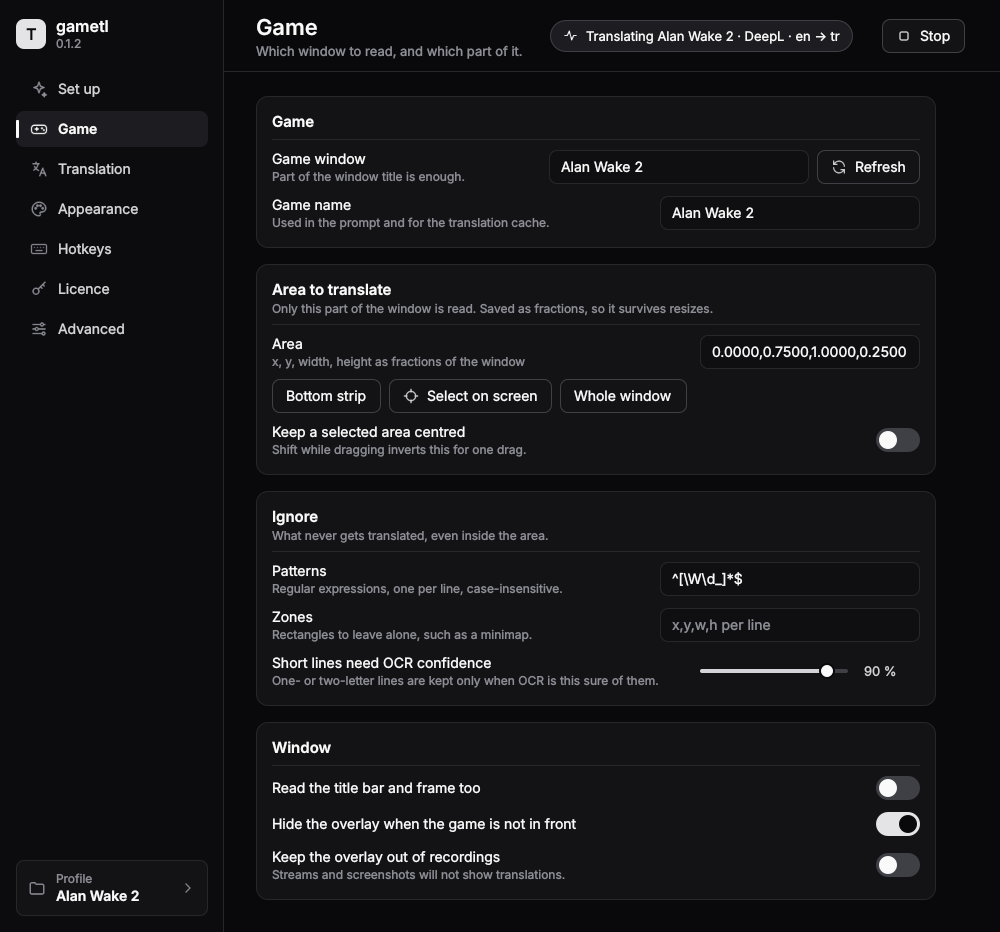
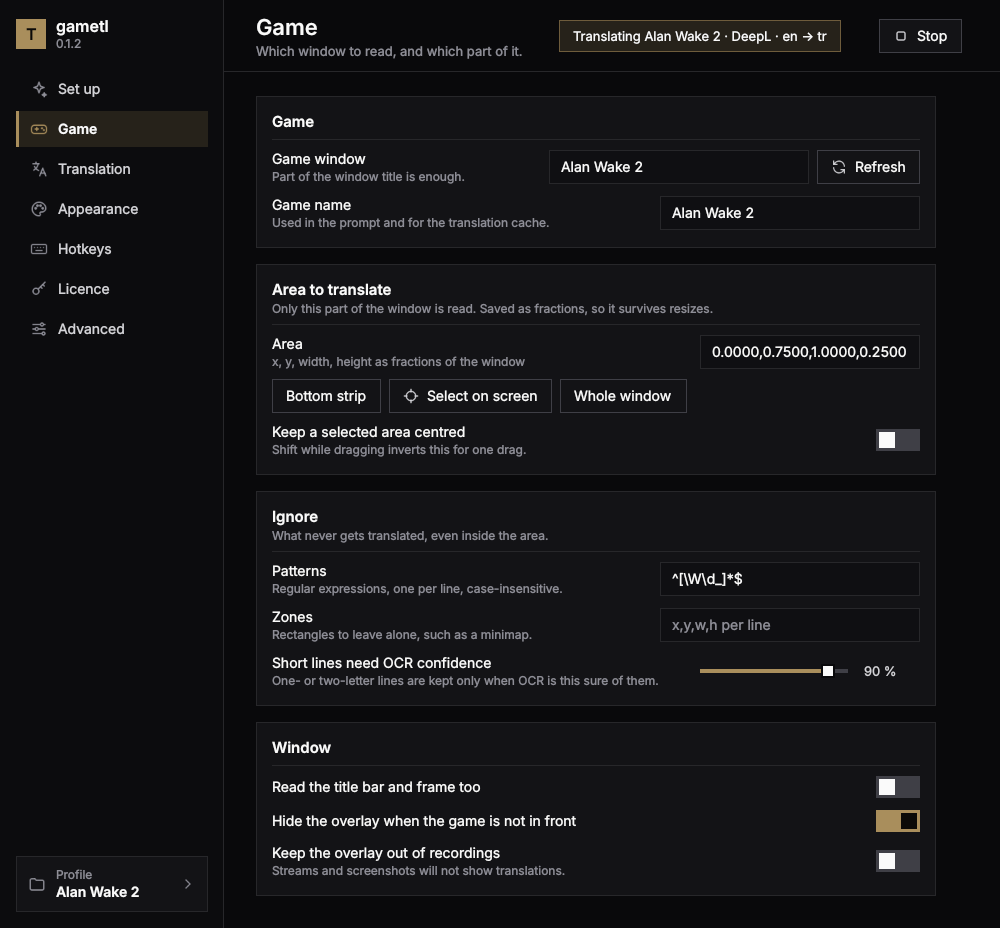
Settings mock: sharp corners, a dim gold accent, state in words only
Every corner is square now, the subtitle pill in the preview excepted
(it mirrors the overlay). One muted accent, a dim gold, marks the filled
button, a switch that is on, the active page, focus and the step badges;
the status chip is text only, tinted while translating. The preview
scene turned to a warm dusk.

diff --git a/src/gametl/app/qml/Header.qml b/src/gametl/app/qml/Header.qml
@@ -2,17 +2,13 @@ import QtQuick
 import QtQuick.Layouts
 import "Icons.js" as Icons
 
-// Page title on the left; the state of the overlay and its one button on the right.
+// Page title on the left; the state of the overlay, in words, and its one button on the right.
 Item {
     id: root
     property string title: ""
     property string subtitle: ""
     property string status: "idle"  // "idle" | "starting" | "running" | "paused"
     property string statusText: "Overlay off"
-
-    readonly property string statusIcon: status === "running" ? Icons.activity
-                                       : status === "starting" ? Icons.loader
-                                       : status === "paused" ? Icons.pause : Icons.power
 
     implicitHeight: 72
 
@@ -31,27 +27,16 @@ Item {
 
         Rectangle {
             height: 32
-            width: chip.implicitWidth + 26
-            radius: 16
-            color: root.status === "running" ? Theme.cardRaised : Theme.card
-            border.color: root.status === "running" ? Theme.borderStrong : Theme.border
-            Row {
+            width: chip.implicitWidth + 28
+            color: root.status === "running" ? Theme.accentSoft : Theme.card
+            border.color: root.status === "running" ? Theme.accentDeep : Theme.border
+            Text {
                 id: chip
                 anchors.centerIn: parent
-                spacing: 8
-                Icon {
-                    path: root.statusIcon
-                    size: 15
-                    color: root.status === "running" ? Theme.text : Theme.muted
-                    anchors.verticalCenter: parent.verticalCenter
-                }
-                Text {
-                    text: root.statusText
-                    color: root.status === "running" ? Theme.text : Theme.textSoft
-                    font.family: Theme.font
-                    font.pixelSize: Theme.sizeSmall + 1
-                    anchors.verticalCenter: parent.verticalCenter
-                }
+                text: root.statusText
+                color: root.status === "running" ? Theme.text : Theme.textSoft
+                font.family: Theme.font
+                font.pixelSize: Theme.sizeSmall + 1
             }
         }
 

diff --git a/src/gametl/app/qml/SideNav.qml b/src/gametl/app/qml/SideNav.qml
@@ -34,9 +34,9 @@ Rectangle {
             Layout.bottomMargin: 2 * Theme.space
             spacing: 10
             Rectangle {
-                width: 30; height: 30; radius: 8
-                color: Theme.primary
-                Text { anchors.centerIn: parent; text: "T"; color: Theme.textOnPrimary; font.family: Theme.font; font.pixelSize: 16; font.weight: Font.Bold }
+                width: 30; height: 30
+                color: Theme.accent
+                Text { anchors.centerIn: parent; text: "T"; color: Theme.textOnAccent; font.family: Theme.font; font.pixelSize: 16; font.weight: Font.Bold }
             }
             ColumnLayout {
                 spacing: 0
@@ -53,18 +53,18 @@ Rectangle {
                 Layout.fillWidth: true
                 height: 36
                 radius: Theme.radiusSmall
-                color: active ? Theme.cardRaised : mouse.containsMouse ? Theme.card : "transparent"
+                color: active ? Theme.accentSoft : mouse.containsMouse ? Theme.card : "transparent"
 
                 Rectangle {
                     visible: parent.active
-                    x: 0; y: 9; width: 3; height: 18; radius: 2
-                    color: Theme.text
+                    x: 0; y: 0; width: 3; height: parent.height
+                    color: Theme.accent
                 }
                 Row {
                     anchors.verticalCenter: parent.verticalCenter
                     x: 14
                     spacing: 10
-                    Icon { path: modelData.icon; color: parent.parent.active ? Theme.text : Theme.muted; size: 18; anchors.verticalCenter: parent.verticalCenter }
+                    Icon { path: modelData.icon; color: parent.parent.active ? Theme.accent : Theme.muted; size: 18; anchors.verticalCenter: parent.verticalCenter }
                     Text {
                         text: modelData.label
                         color: parent.parent.active ? Theme.text : Theme.textSoft

diff --git a/src/gametl/app/qml/SubtitlePreview.qml b/src/gametl/app/qml/SubtitlePreview.qml
@@ -15,21 +15,19 @@ Rectangle {
     property string position: "bottom"
 
     implicitHeight: width * 9 / 16
-    radius: Theme.radius
     clip: true
     color: "#0A0C10"
 
     // A dusk scene: sky, a tree line, a lit window. Enough to judge contrast.
     Rectangle {
         anchors.fill: parent
-        radius: root.radius
         gradient: Gradient {
-            GradientStop { position: 0.0; color: "#26262C" }
-            GradientStop { position: 0.55; color: "#34323A" }
+            GradientStop { position: 0.0; color: "#3A2C2C" }
+            GradientStop { position: 0.55; color: "#2E2733" }
             GradientStop { position: 1.0; color: "#0E0E11" }
         }
     }
-    Rectangle { x: parent.width * 0.62; y: parent.height * 0.18; width: 110; height: 110; radius: 55; color: "#D8CBA0"; opacity: 0.22 }
+    Rectangle { x: parent.width * 0.62; y: parent.height * 0.18; width: 110; height: 110; radius: 55; color: "#E3C98E"; opacity: 0.28 }
     Repeater {
         model: 9
         Rectangle {
@@ -39,10 +37,10 @@ Rectangle {
             width: root.width / 6
             height: root.height * 0.6
             radius: 40
-            color: "#121215"
+            color: "#15131A"
         }
     }
-    Rectangle { x: parent.width * 0.74; y: parent.height * 0.66; width: 22; height: 30; color: "#E8C27A"; opacity: 0.8 }
+    Rectangle { x: parent.width * 0.74; y: parent.height * 0.66; width: 22; height: 30; color: "#E8B45A"; opacity: 0.85 }
 
     Item {
         id: zone
@@ -99,7 +97,6 @@ Rectangle {
         anchors.margins: 10
         width: previewTag.implicitWidth + 16
         height: 22
-        radius: 11
         color: Qt.rgba(0, 0, 0, 0.45)
         Text { id: previewTag; anchors.centerIn: parent; text: "Live preview"; color: Theme.textSoft; font.family: Theme.font; font.pixelSize: 11 }
     }

diff --git a/src/gametl/app/qml/Theme.qml b/src/gametl/app/qml/Theme.qml
@@ -2,8 +2,9 @@ pragma Singleton
 import QtQuick
 
 // The design tokens every component reads: one palette, one spacing grid,
-// one type scale. Neutral zinc greys on near-black; no hue anywhere in the
-// chrome, so the game's own colours in the preview are the only colour.
+// one type scale. Sharp corners; zinc greys on near-black with one muted
+// accent (a dim gold) for the things that matter: the filled button, a
+// switch that is on, the active page, focus.
 QtObject {
     readonly property color window: "#09090B"
     readonly property color sidebar: "#0C0C0E"
@@ -15,14 +16,16 @@ QtObject {
     readonly property color text: "#FAFAFA"
     readonly property color textSoft: "#D4D4D8"
     readonly property color muted: "#8E8E97"
-    readonly property color primary: "#E4E4E7"      // filled buttons, switches that are on
-    readonly property color textOnPrimary: "#09090B"
-    readonly property color selection: "#52525B"
-    readonly property color danger: "#E5484D"       // destructive actions only
+    readonly property color accent: "#A98E5C"       // dim gold: filled button, switch on, active page, focus
+    readonly property color accentSoft: "#26221A"   // the accent at 15 %, for the active page's row
+    readonly property color accentDeep: "#6E5C3C"   // outlines in the accent that must stay quiet
+    readonly property color textOnAccent: "#0B0A08"
+    readonly property color selection: "#4A4234"
+    readonly property color danger: "#B5484D"       // destructive actions only
 
     readonly property int space: 8
-    readonly property int radius: 12
-    readonly property int radiusSmall: 8
+    readonly property int radius: 0
+    readonly property int radiusSmall: 0
     readonly property int sidebarWidth: 224
     readonly property int contentWidth: 680
 

diff --git a/src/gametl/app/qml/PrimaryButton.qml b/src/gametl/app/qml/PrimaryButton.qml
@@ -1,11 +1,11 @@
 import QtQuick
 import QtQuick.Controls.Basic
 
-// The one filled button on a page: light on dark, no hue.
+// The one filled button on a page, in the accent.
 Button {
     id: root
     property string icon_: ""
-    property color fill: Theme.primary
+    property color fill: Theme.accent
 
     implicitHeight: 36
     leftPadding: 16
@@ -15,12 +15,11 @@ Button {
     font.weight: Font.DemiBold
 
     background: Rectangle {
-        radius: Theme.radiusSmall
-        color: root.down ? Qt.darker(root.fill, 1.2) : root.hovered ? "#FFFFFF" : root.fill
+        color: root.down ? Qt.darker(root.fill, 1.2) : root.hovered ? Qt.lighter(root.fill, 1.1) : root.fill
     }
     contentItem: Row {
         spacing: 8
-        Icon { visible: root.icon_ !== ""; path: root.icon_; color: Theme.textOnPrimary; size: 16; strokeWidth: 2.2; anchors.verticalCenter: parent.verticalCenter }
-        Text { text: root.text; color: Theme.textOnPrimary; font: root.font; anchors.verticalCenter: parent.verticalCenter }
+        Icon { visible: root.icon_ !== ""; path: root.icon_; color: Theme.textOnAccent; size: 16; strokeWidth: 2.2; anchors.verticalCenter: parent.verticalCenter }
+        Text { text: root.text; color: Theme.textOnAccent; font: root.font; anchors.verticalCenter: parent.verticalCenter }
     }
 }

diff --git a/src/gametl/app/qml/Toggle.qml b/src/gametl/app/qml/Toggle.qml
@@ -1,24 +1,23 @@
 import QtQuick
 import QtQuick.Controls.Basic
 
-// A switch: light track with a dark knob when on, dark track with a light
-// knob when off. No hue.
+// A switch: a square knob sliding on a bar; the bar takes the accent when on.
 Switch {
     id: root
     implicitWidth: 44
-    implicitHeight: 24
+    implicitHeight: 22
     padding: 0
 
     indicator: Rectangle {
-        width: 44; height: 24; radius: 12
-        color: root.checked ? Theme.primary : Theme.borderStrong
+        width: 44; height: 22
+        color: root.checked ? Theme.accent : Theme.borderStrong
         Behavior on color { ColorAnimation { duration: 120 } }
 
         Rectangle {
-            width: 18; height: 18; radius: 9
+            width: 16; height: 16
             y: 3
             x: root.checked ? parent.width - width - 3 : 3
-            color: root.checked ? Theme.textOnPrimary : Theme.text
+            color: root.checked ? Theme.textOnAccent : Theme.text
             Behavior on x { NumberAnimation { duration: 120; easing.type: Easing.OutCubic } }
         }
     }

diff --git a/src/gametl/app/qml/AppearancePage.qml b/src/gametl/app/qml/AppearancePage.qml
@@ -14,7 +14,7 @@ ColumnLayout {
         background: ["pill", "shadow", "none"][backgroundPick.current]
         pillOpacity: pillAlpha.value / 255
         position: ["bottom", "source", "center"][positionPick.current]
-        textColor: ownColour.checked ? "#F2F2F2" : "#FFE27A"
+        textColor: ownColour.checked ? "#F2F2F2" : "#D9B86A"
     }
 
     Card {
@@ -31,7 +31,7 @@ ColumnLayout {
                 spacing: Theme.space
                 Toggle { id: ownColour; checked: true }
                 Text { text: "game's own"; color: Theme.textSoft; font.family: Theme.font; font.pixelSize: Theme.sizeSmall + 1 }
-                Rectangle { width: 28; height: 28; radius: 6; color: "#FFE27A"; border.color: Theme.borderStrong; opacity: ownColour.checked ? 0.35 : 1 }
+                Rectangle { width: 28; height: 28; color: "#D9B86A"; border.color: Theme.borderStrong; opacity: ownColour.checked ? 0.35 : 1 }
             }
         }
         SettingRow { label: "Bold"; Toggle { id: boldToggle; checked: backend.subtitleBold } }

diff --git a/src/gametl/app/qml/Gauge.qml b/src/gametl/app/qml/Gauge.qml
@@ -25,19 +25,17 @@ Row {
             y: slider.topPadding + slider.availableHeight / 2 - height / 2
             width: slider.availableWidth
             height: 4
-            radius: 2
             color: Theme.borderStrong
             Rectangle {
                 width: slider.visualPosition * parent.width
                 height: parent.height
-                radius: 2
-                color: Theme.textSoft
+                color: Theme.accent
             }
         }
         handle: Rectangle {
             x: slider.leftPadding + slider.visualPosition * (slider.availableWidth - width)
             y: slider.topPadding + slider.availableHeight / 2 - height / 2
-            width: 16; height: 16; radius: 8
+            width: 14; height: 14
             color: Theme.text
             border.color: Theme.window
             border.width: 2

diff --git a/src/gametl/app/qml/Card.qml b/src/gametl/app/qml/Card.qml
@@ -32,13 +32,13 @@ Rectangle {
 
             Rectangle {
                 visible: root.step > 0
-                width: 24; height: 24; radius: 12
-                color: Theme.cardRaised
-                border.color: Theme.borderStrong
+                width: 24; height: 24
+                color: Theme.accentSoft
+                border.color: Theme.accentDeep
                 Text {
                     anchors.centerIn: parent
                     text: root.step
-                    color: Theme.text
+                    color: Theme.accent
                     font.family: Theme.font
                     font.pixelSize: Theme.sizeSmall
                     font.weight: Font.DemiBold

diff --git a/src/gametl/app/qml/Field.qml b/src/gametl/app/qml/Field.qml
@@ -21,7 +21,7 @@ TextField {
     background: Rectangle {
         radius: Theme.radiusSmall
         color: Theme.field
-        border.color: root.activeFocus ? Theme.muted : Theme.border
+        border.color: root.activeFocus ? Theme.accent : Theme.border
         border.width: 1
     }
 }

diff --git a/src/gametl/app/qml/SecondaryButton.qml b/src/gametl/app/qml/SecondaryButton.qml
@@ -14,7 +14,6 @@ Button {
     font.pixelSize: Theme.size
 
     background: Rectangle {
-        radius: Theme.radiusSmall
         color: root.down ? Theme.cardRaised : root.hovered ? Theme.cardRaised : Theme.card
         border.color: root.danger ? Theme.danger : Theme.borderStrong
     }
